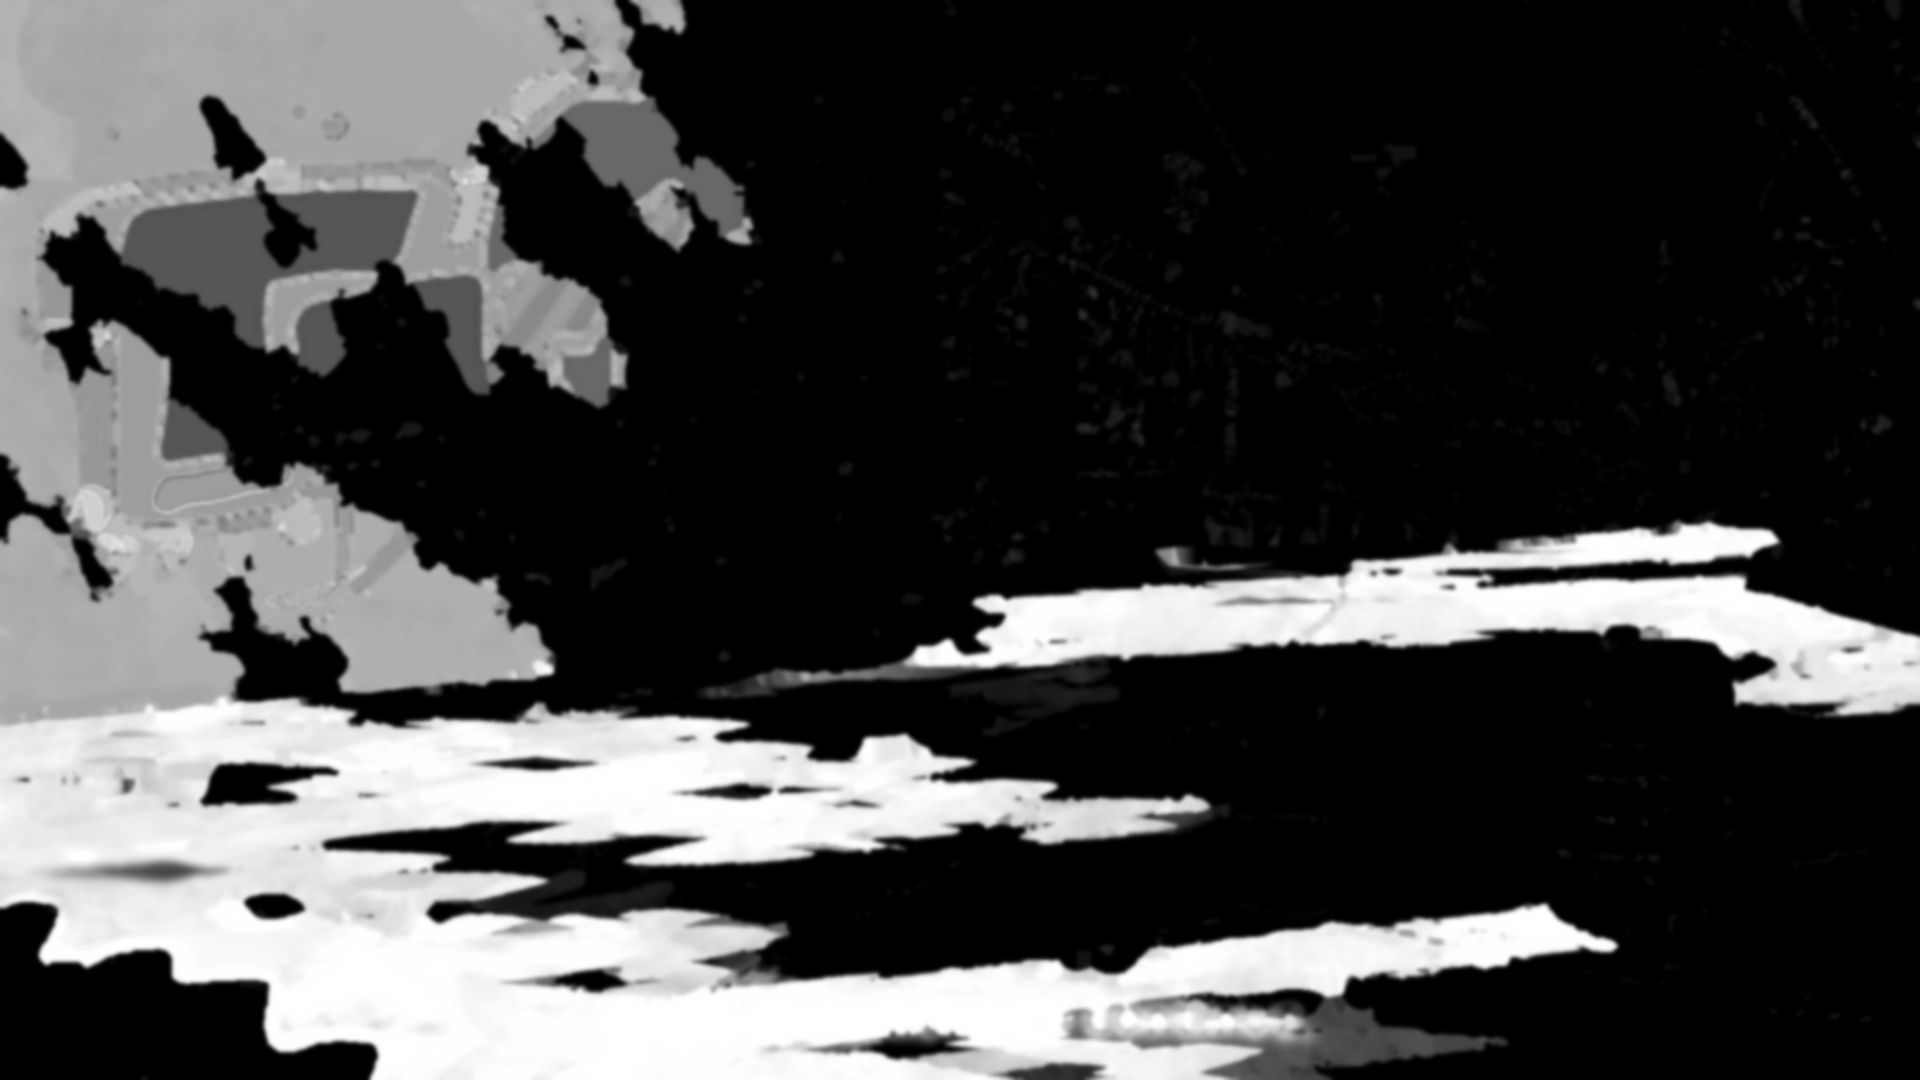
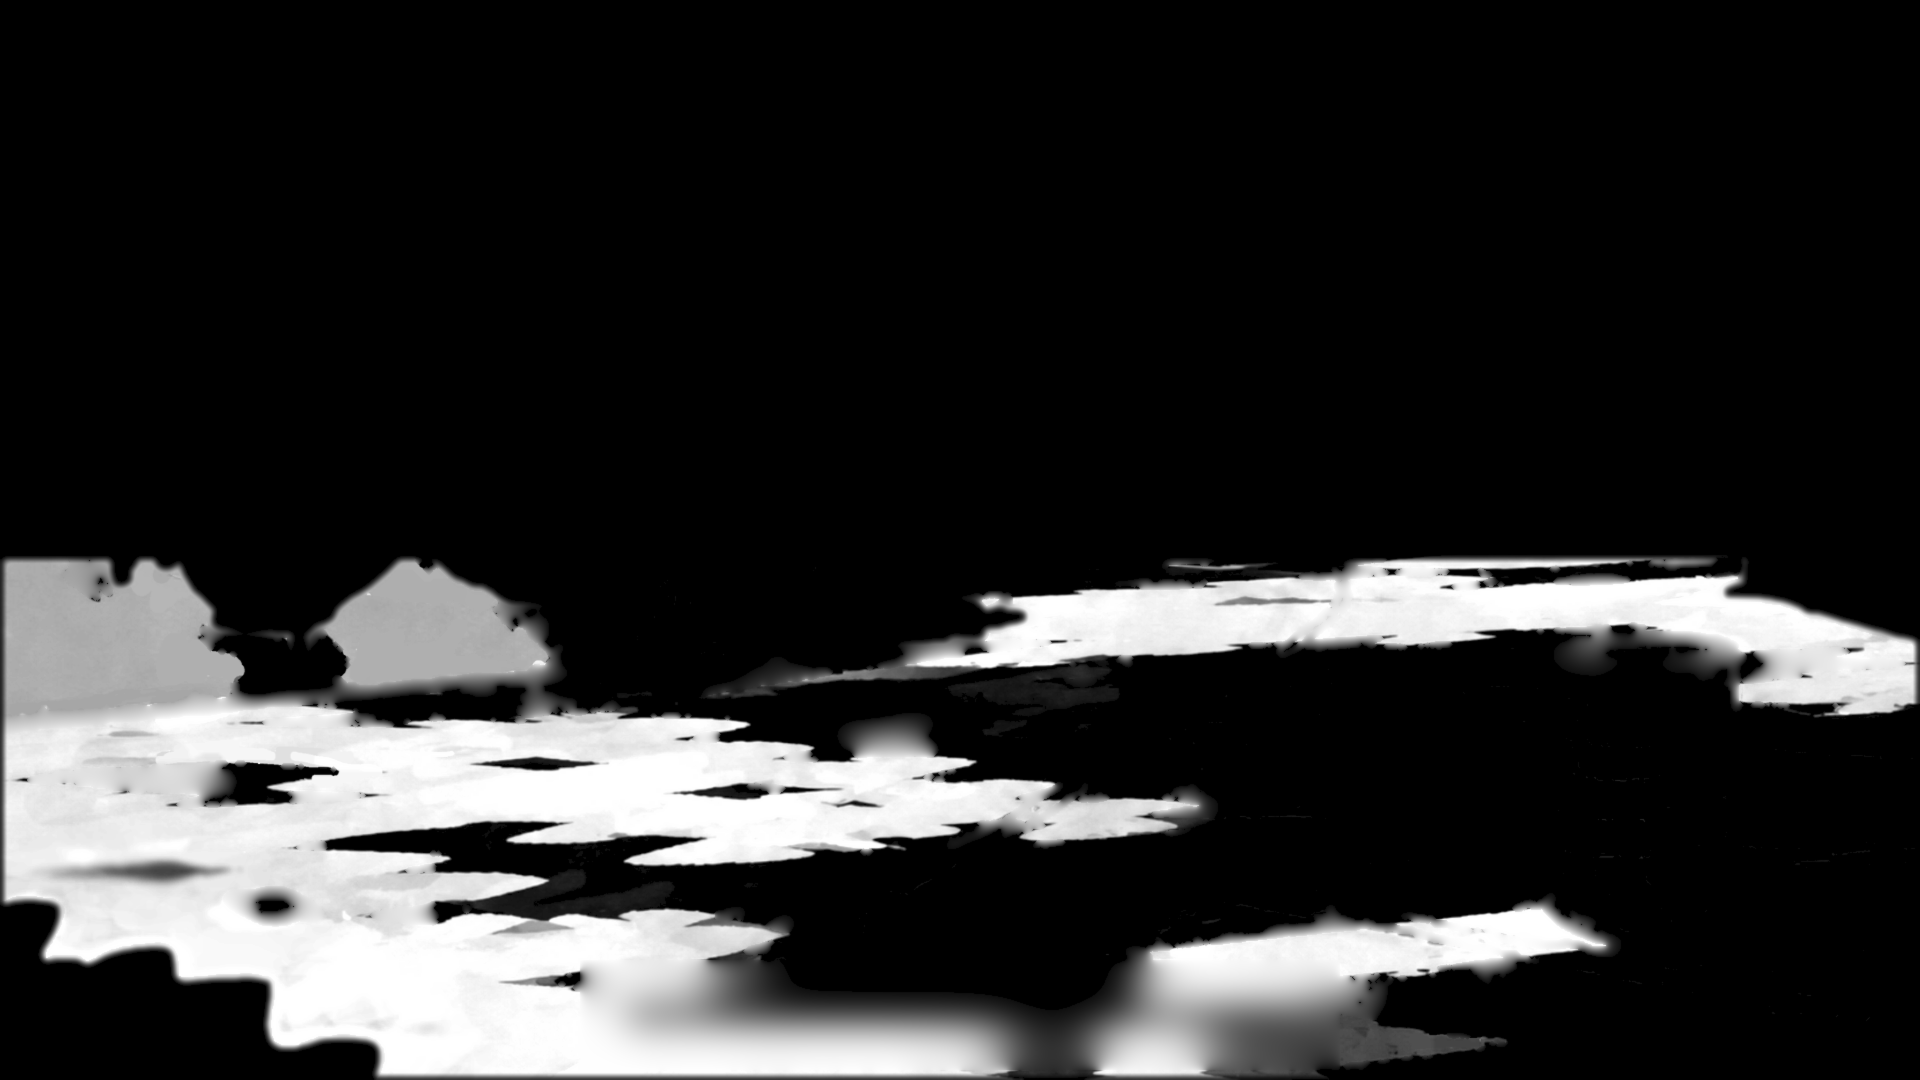
Take the mush off her street: the shadow, the cloud and the leaf
Three layers drawn over her plate, each wrong in its own way, and one sentence
behind all three: 46.png is a reference, not a layer. The pipeline asserted that
46 is 48 plus painted clouds and their cast shadow, so 46 minus 48 would be her
own weather. It is not. 46 is a separate export, lit differently across the whole
frame, with her caption typed into it.

Her plate was never touched and is not touched here: main2-background.png is
48.png with a maximum channel difference of 0.0. Everything wrong was on top.

THE SHADOW was 38.4 per cent of the frame. It called 48 per cent of the wall and
the whole sari-sari block shadowed, rendered the words "to continue" as a dark
stencil lying on the road, and multiplied all of it over her painting by a
blue-shifted tint. It is 22.5 per cent now and restricted to the ground plane she
painted it on, which is found from her own road colour rather than typed in.

Its holes were filled by distance_transform_edt, which gives every unreliable
pixel the value of the single nearest reliable one: a Voronoi stamp. Since edges
is every gradient over 6 in a PAINTING dilated three pixels, most of the frame
was unreliable, so her soft dapple came back as flat hard-edged slabs and was
then blurred two pixels to hide the seams. Measured against her own darkening:
her dapple carries 0.0121 of edge energy on the road and the stamp carried
0.0167, 38 per cent more edge than she painted, while over the whole frame it
[…]

diff --git a/tools/author_owner_menu_v3.py b/tools/author_owner_menu_v3.py
@@ -51,6 +51,20 @@ SKY = np.array([136.0, 200.0, 119.0])
 # a box cropped tight to the leaf makes the leaf its own median road colour.
 LEAF = (1022, 928, 140, 62)
 
+# The skyline. Everything above this is wall, houses and canopy; the street is
+# below it. Read off her own plate: the kerb on the right meets the road at 545
+# and the wall's foot on the left at 612, so 560 clears both without eating the
+# top of the road.
+HORIZON = 560
+
+# Her caption on 46.png, which is the box `HomeCourtView.Caption` draws the live
+# line into. x, y, width, height in the plate's own 1920x1080 pixels.
+CAPTION = (580, 960, 760, 110)
+
+# Her tree, top right, where the leaves come from. Read for its colour ramp
+# only; the leaf's shape stays the one she painted lying in the road.
+CANOPY = (1470, 20, 440, 220)
+
 
 def load(name):
     return np.array(Image.open(SOURCE / name).convert('RGB')).astype(float)
@@ -121,18 +135,40 @@ def cut_cloud(lit, plate, opening):
     # ⚠ SEEDING MATTERS AS MUCH AS BLURRING. Starting from the source left a
     # tan ghost of the pole and a green one of the palm that then travelled
     # with the cloud, and it pulled sky green in through the sprite's border.
+    # ⚠⚠ COARSE TO FINE, BECAUSE FORTY PASSES AT ONE SIGMA CANNOT CROSS A PALM
+    # FROND. Diffusion at sigma 3 carries colour about three pixels a pass, so
+    # the hole left by the pole closed and the ones left by the fronds did not:
+    # the finished sprite kept a tan ghost of the post and a green one of the
+    # palm, and both TRAVELLED with the cloud, which is the one thing a cloud
+    # may not do. Relaxing the wide holes first and refining after closes them
+    # for the same total work, and her own pixels are still pinned every pass.
     nearest = ndimage.distance_transform_edt(
         ~crop_body, return_distances=False, return_indices=True)
     rgb = crop_lit[nearest[0], nearest[1]]
-    for _ in range(40):
-        rgb = np.dstack([ndimage.gaussian_filter(rgb[..., c], 3) for c in range(3)])
-        rgb[crop_body] = crop_lit[crop_body]
+    for sigma, passes in ((14, 18), (8, 14), (4, 12), (2, 10)):
+        for _ in range(passes):
+            rgb = np.dstack([ndimage.gaussian_filter(rgb[..., c], sigma) for c in range(3)])
+            rgb[crop_body] = crop_lit[crop_body]
 
     # Alpha from how far the paint is from the flat sky, normalised by the
     # cloud's own body, so her brushed rim survives instead of a cut-out.
     reach = np.abs(crop_lit - SKY).max(axis=2)
     scale = max(np.percentile(reach[crop_body], 70), 1)
     alpha = np.clip(reach / scale, 0, 1)
+    # ⚠⚠ THE HOLES ARE FILLED IN ALPHA TOO, AND FORGETTING THAT IS WHAT MADE THE
+    # POLE VISIBLE. The colour under the pole and the fronds was repainted
+    # above, but the alpha floor here was `max(alpha, .9)`: a flat ten per cent
+    # dip in exactly their shape. At runtime that lets her green sky through in
+    # the outline of a telephone pole and a palm frond, and the outline TRAVELS
+    # with the cloud. 🧑 on that build: *"the clouds are absolute dog water"*.
+    # A normalised convolution carries the surrounding cloud's own alpha across
+    # each hole instead, so the mass is solid where she painted it solid and
+    # still fades at the brushed rim she drew.
+    hole = crop_healed & ~crop_body
+    known = (crop_healed & ~hole).astype(np.float64)
+    carried = (ndimage.gaussian_filter(alpha * known, 9.0)
+               / np.maximum(ndimage.gaussian_filter(known, 9.0), 1e-6))
+    alpha = np.where(hole, np.maximum(alpha, carried), alpha)
     alpha = np.where(crop_healed, np.maximum(alpha, .9), 0)
 
     # ⚠ The mass is cut off flat by the rooflines, which is invisible while it
@@ -186,15 +222,76 @@ def cut_shadow(lit, plate, opening):
     luma = plate @ np.array([.299, .587, .114])
     edges = ndimage.gaussian_gradient_magnitude(luma, 1.0) > 6
     unreliable = ndimage.binary_dilation(edges | (projection < -.02), iterations=3)
+    # Her caption is type she added to 46 and it lies flat on the road, so it
+    # passes every reliability test above and comes out as a dark stencil of the
+    # words. Calling it unreliable lets the diffusion below carry the road's own
+    # dapple straight through it; zeroing it afterwards left a visible rectangle.
+    unreliable[CAPTION[1]:CAPTION[1] + CAPTION[3], CAPTION[0]:CAPTION[0] + CAPTION[2]] = True
     reliable = (opening < .05) & ~unreliable
-    nearest = ndimage.distance_transform_edt(
-        ~reliable, return_distances=False, return_indices=True)
-    strength = strength[nearest[0], nearest[1]]
+
+    # ⚠⚠ THE HOLES ARE FILLED BY DIFFUSION, NOT BY THE NEAREST PIXEL, AND THAT
+    # DIFFERENCE IS THE WHOLE LOOK OF THE SCREEN. This used to be a
+    # `distance_transform_edt`, which gives every unreliable pixel the value of
+    # the single CLOSEST reliable one: a Voronoi stamp. `edges` is every
+    # gradient over 6 in a PAINTING dilated three pixels, so most of the frame
+    # is unreliable, and her soft leaf dapple came back as flat hard-edged slabs
+    # tiled across the road. Measured against her own darkening, 46 minus 48:
+    # her dapple carries 0.0121 of edge energy on the road and the stamped mask
+    # carried 0.0167, which is 38 per cent MORE edge than she painted, while
+    # over the whole frame it came back 1.4x SOFTER than hers because of the two
+    # pixel blur underneath. Both at once is why it read as mush.
+    #
+    # A coarse normalised convolution seeds the holes with the weighted AVERAGE
+    # of the reliable pixels around them, then a few finer relaxation passes
+    # settle the seam. Her own pixels are pinned back after every pass, so
+    # nothing she painted is ever averaged with anything.
+    weight = reliable.astype(np.float64)
+    seed = (ndimage.gaussian_filter(strength * weight, 12.0)
+            / np.maximum(ndimage.gaussian_filter(weight, 12.0), 1e-6))
+    field = np.where(reliable, strength, seed)
+    for sigma in (6.0, 3.0, 1.5):
+        for _ in range(8):
+            field = ndimage.gaussian_filter(field, sigma)
+            field[reliable] = strength[reliable]
+    strength = field
+
+    # ⚠⚠ THE DAPPLE IS RESTRICTED TO THE GROUND SHE PAINTED IT ON, AND WITHOUT
+    # THIS THE MASK IS A LIGHTING DIFFERENCE RATHER THAN A SHADOW. 46 is not 48
+    # plus a cast shadow: it is a separate export, lit slightly differently over
+    # the WHOLE frame, with her caption typed into it. So the raw difference
+    # reported 48 per cent of the wall and the entire sari-sari block as
+    # shadowed, the words "to continue" came out as a dark stencil across the
+    # road, and all of it was then multiplied over her painting by a blue tint.
+    # 🧑, opening that build: *"WHY IS THIS SHIT SO BLURRY WHAT DID U DOOOO"*.
+    # He also said it plainly: **46 was just reference.**
+    #
+    # ⚠ SO THE ONE PART OF THAT DIFFERENCE THAT IS REAL IS KEPT AND THE REST IS
+    # DROPPED. A cast shadow on the street is on the STREET; the road is one
+    # connected warm plane under the horizon and it is found rather than typed,
+    # so a re-export that shifts the composition does not silently re-cut it.
+    road_colour = np.median(plate[880:1040, 600:1400].reshape(-1, 3), axis=0)
+    near_road = np.abs(plate - road_colour).max(axis=2) < 46
+    near_road[:HORIZON] = False
+    labels, count = ndimage.label(ndimage.binary_closing(near_road, np.ones((9, 9))))
+    if count:
+        sizes = np.bincount(labels.ravel())
+        sizes[0] = 0
+        ground_plane = ndimage.binary_fill_holes(labels == sizes.argmax())
+    else:
+        ground_plane = near_road
+    # A hair of feather so the dapple does not stop at a hard line on the kerb.
+    ground_plane = ndimage.gaussian_filter(ground_plane.astype(np.float64), 3.0)
+    strength *= np.clip(ground_plane * 1.15, 0, 1)
+
     strength[~(opening < .05)] = 0
     # ⚠ Re-encoding noise between two exports of one painting sits under 0.06.
     # Without this floor the whole street carries a faint travelling veil.
     strength[strength < .06] = 0
-    strength = ndimage.gaussian_filter(strength, 2.0)
+    # ⚠ HALF A PIXEL, NOT TWO. The 2.0 was covering for the slab edges the stamp
+    # produced; with the fill continuous there is nothing left to hide, and two
+    # pixels of blur across a 1920 wide mask is what turned her dapple into
+    # weather. This only takes the aliasing off the reliable-to-filled boundary.
+    strength = ndimage.gaussian_filter(strength, 0.5)
     Image.fromarray(np.uint8(np.clip(strength * 255, 0, 255))).save(TARGET / 'main2-shadow.png')
     print(f'main2-shadow.png  tint {tint.round(4)}  covers '
           f'{(strength > .15).mean() * 100:.1f}% of the frame')
@@ -214,7 +311,56 @@ def cut_leaf(plate):
     alpha = np.where(ndimage.binary_dilation(keep, iterations=1), alpha, 0)
     ys, xs = np.nonzero(alpha > .05)
     y0, y1, x0, x1 = ys.min(), ys.max() + 1, xs.min(), xs.max() + 1
-    rgba = np.dstack((np.uint8(np.clip(crop[y0:y1, x0:x1], 0, 255)),
+    blade = crop[y0:y1, x0:x1]
+    mask = alpha[y0:y1, x0:x1] > .5
+
+    # ⚠⚠ THE SHAPE IS HER FALLEN LEAF AND THE COLOUR IS HER TREE, BECAUSE A LEAF
+    # FALLS OUT OF THE TREE IT CAME FROM. Cut raw, this blade is her road
+    # litter: measured (174, 84, 39) against the litter beside it at
+    # (162, 75, 38), so the cut is exact. But the canopy it falls out of is
+    # (126, 132, 77), and five burnt-orange leaves tumbling out of a green tree
+    # is the first thing anybody notices. 🧑: *"the leaves arent even the same
+    # color"*.
+    #
+    # ⚠ BOTH ENDS OF THIS ARE HERS AND NOTHING IS INVENTED. The silhouette and
+    # its shading are the leaf she painted; the palette is the ramp measured off
+    # HER canopy, dark to light. Her own light-to-dark modelling on the blade is
+    # what indexes into it, so the leaf keeps the form she drew and wears the
+    # colour of the tree above it. This is not `CLAUDE.md` § 6.0's ban on
+    # repainting sourced art: that is about an authored asset shipping as
+    # delivered, and her plate does, byte for byte. This is one derived sprite
+    # being cut from the right part of the same painting.
+    canopy = plate[CANOPY[1]:CANOPY[1] + CANOPY[3], CANOPY[0]:CANOPY[0] + CANOPY[2]]
+    foliage = canopy.reshape(-1, 3)
+    foliage = foliage[np.abs(foliage - SKY).max(axis=1) > 30]
+    # ⚠ A RAMP, NOT A SORTED PILE OF PIXELS. Sorting her canopy by luma and
+    # indexing straight into it picks a different hue for every neighbouring
+    # value, because the tree carries red-brown branch strokes at the same
+    # brightness as its leaves: the first leaf out of that came back speckled
+    # with orange. Binning by luma and taking the MEDIAN hue in each bin throws
+    # the branch strokes out, and smoothing across the bins leaves one
+    # continuous dark-to-light green.
+    foliage_luma = foliage @ np.array([.299, .587, .114])
+    bins = np.linspace(foliage_luma.min(), foliage_luma.max(), 24)
+    ramp = []
+    for lo, hi in zip(bins[:-1], bins[1:]):
+        band = foliage[(foliage_luma >= lo) & (foliage_luma <= hi)]
+        if len(band):
+            ramp.append(np.median(band, axis=0))
+    ramp = np.array(ramp) if ramp else foliage[:1]
+    if len(ramp) > 4:
+        ramp = np.stack([ndimage.uniform_filter1d(ramp[:, c], 5, mode='nearest')
+                         for c in range(3)], axis=1)
+
+    luma = blade @ np.array([.299, .587, .114])
+    if mask.any():
+        low, high = np.percentile(luma[mask], (4, 96))
+    else:
+        low, high = luma.min(), luma.max()
+    index = np.clip((luma - low) / max(high - low, 1e-6), 0, 1)
+    picked = ramp[np.clip((index * (len(ramp) - 1)).astype(int), 0, len(ramp) - 1)]
+
+    rgba = np.dstack((np.uint8(np.clip(picked, 0, 255)),
                       np.uint8(np.clip(alpha[y0:y1, x0:x1] * 255, 0, 255))))
     Image.fromarray(rgba).save(TARGET / 'main2-leaf.png')
     print(f'main2-leaf.png  {rgba.shape[1]}x{rgba.shape[0]}')
